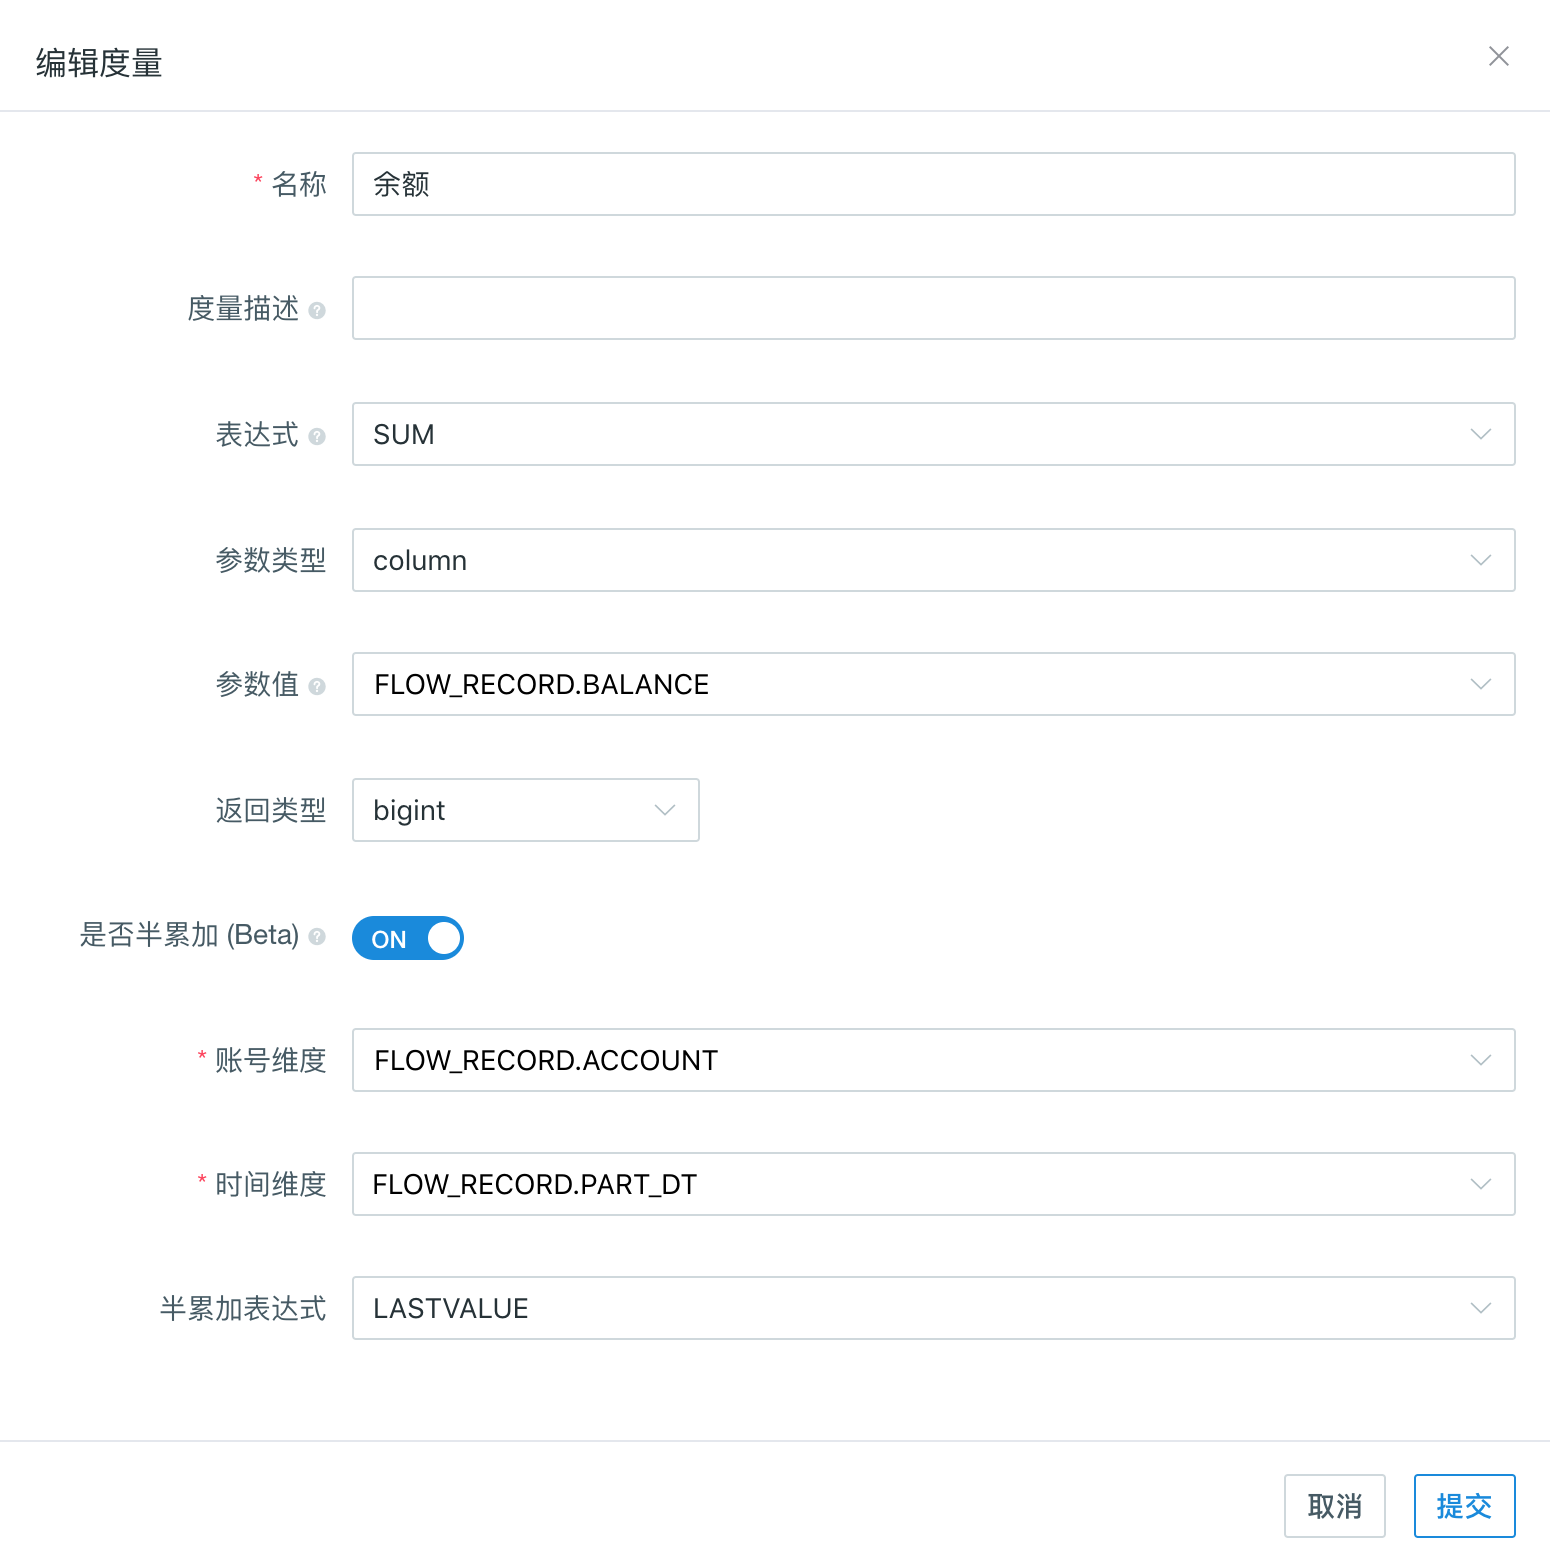
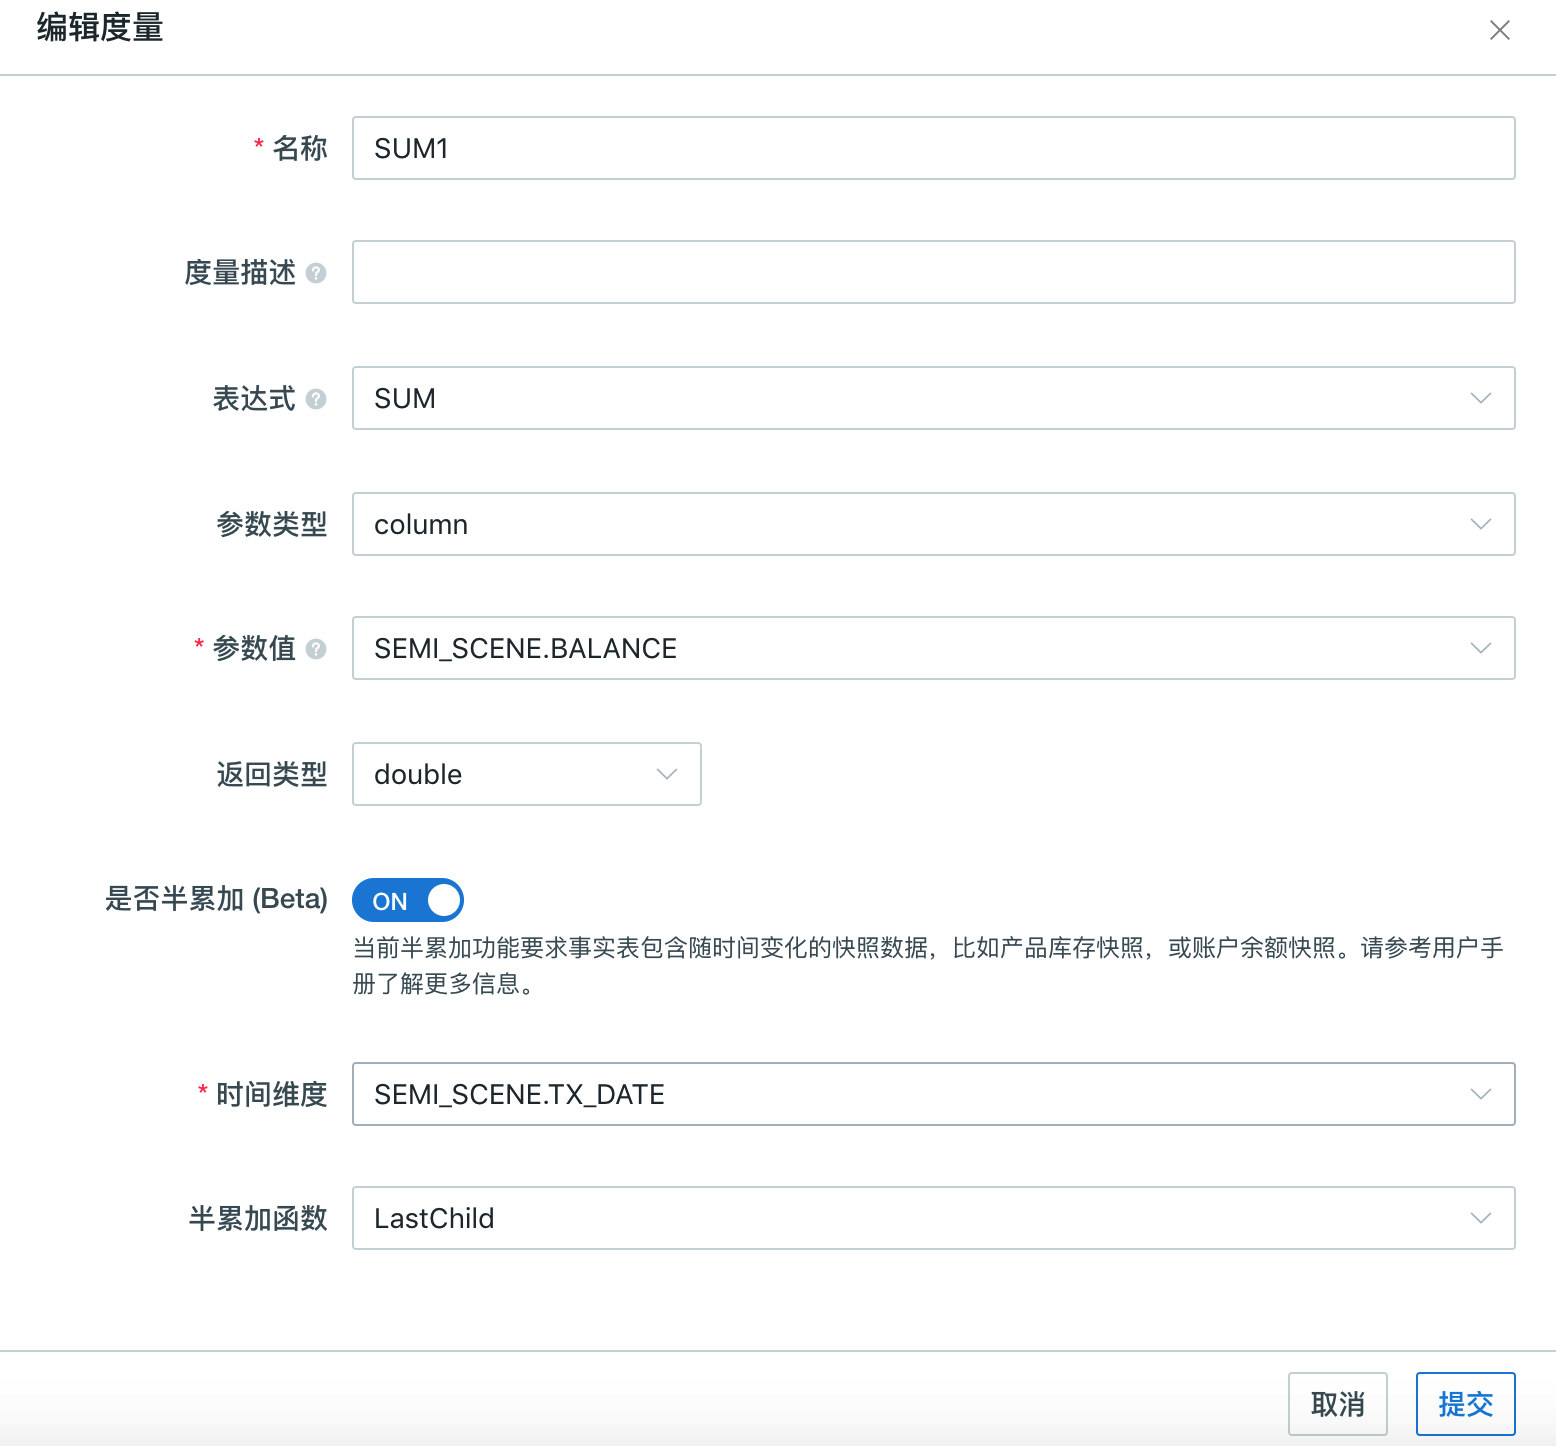
semi-sum refine

diff --git a/zh-hans/model/cube_design/measure_design/semi_sum.cn.md b/zh-hans/model/cube_design/measure_design/semi_sum.cn.md
@@ -1,42 +1,47 @@
 ## 半累加度量（Beta）
 
-在很多业务的数据分析场景中，半累加度量是很常见的，它可以用于处理证券、账户余额、人力资源等业务领域。比如在银行在使用账户交易记录数据来统计储蓄账户余额时，对于非时间维度，使用正常的求和，而对于时间维度，则需要取最后一条记录的值（LastNonEmpty）。
+在很多业务的数据分析场景中，半累加度量是很常见的，它可以用于处理证券、账户余额、人力资源等业务领域。比如在银行在使用账户交易记录数据来统计储蓄账户余额时，对于非时间维度，使用正常的求和，而对于时间维度，则需要取最后一条记录的值。
 
-本产品从 v3.3 版本开始，实现了对半累加度量的支持。在 Kyligence Enterprise 中定义聚合函数为 SUM 的度量时，可以启用半累加度量，指定半累加函数（LastNonEmpty）、账号维度和时间维度（TIMESTAMP 或 DATE 类型），即可实现度量的半累加行为。在查询时，Kyligence Enterprise 会对于同一账号维度下的多条记录，只取时间维度上的最后一个值，然后再在其他维度上进行正常的累加（SUM）。
+本产品从 v3.3 版本开始，实现了对半累加度量的支持。在 Kyligence Enterprise 中定义聚合函数为 SUM 的度量时，可以启用半累加度量，指定半累加函数和时间维度（TIMESTAMP 或 DATE 类型），即可实现度量的半累加行为。Kyligence Enterprise 在聚合计算时，对于每一个 Group By 结果集的多条记录，只取时间维度上最靠后的记录，如果时间最靠后有多条记录，再将它们进行正常的累加。
 
 ###  使用方法
 
-以基于银行交易流水数据进行余额分析为例，以下是银行账户流水记录表 *FLOW_RECORD* ：
+当前半累加功能要求事实表包含随时间变化的**快照数据**，比如产品库存快照，或账户余额快照。快照数据要求每一个记录时间点上都有所有账号的一条记录，比如下面的 *SEMI_SCENE* 表。
 
-| Part_DT    | Account   | Expense | Income | Balance |
+| TX_DATE    | ACCOUNT   | EXPENSE | INCOME | BALANCE |
 | ---------- | --------- | ------- | ------ | ------- |
 | 2018-01-01 | account_a | 100     |        | 1000    |
 | 2018-01-01 | account_b | 200     |        | 800     |
-| 2018-01-02 | account_b | 300     |        | 500     |
+| 2018-01-01 | account_c | 300     |        | 500     |
 | 2018-02-15 | account_a |         | 200    | 1200    |
-| 2018-02-18 | account_b |         | 300    | 800     |
+| 2018-02-15 | account_b |         | 300    | 1100    |
+| 2018-02-15 | account_c |         | 50     | 550     |
 
-在这种情形下，就可以将账户余额 *Balance* 定义为半累加度量，默认使用 SUM 函数对 *Balance* 进行聚合，但当查询包含的数据中同一账号 *Account* 下若存在多条记录，则使用半累加函数 LastNonEmpty，在交易时间 *Part_DT* 维度上对账户余额进行聚合。接下来我们将演示如何定义该半累加度量。
+*SEMI_SCENE* 表中有两个记录时间点，分别是 2018-01-01 和 2018-02-15，且每个时间点上都有 3 个账号的记录，是标准的快照数据。
 
-首先，在新建 Cube 界面，点击左下角**添加度量**来添加新的度量。
+在这种情形下，就可以将账户余额 *BALANCE* 定义为半累加度量，在交易时间 *TX_DATE* 维度上对账户余额进行聚合取最后的记录。下面是如何定义该半累加度量。
 
-第二步，输入度量名称，选择 *SUM* 为表达式，输入参数值，并勾选“是否半累加”。
+1. 以 *SEMI_SCENE* 为事实表创建 Cube。
 
-![添加度量](../images/semi_sum.cn.png)
+2. 在度量版面**添加度量**，选择 *SUM* 表达式，并勾选中半累加。
 
-第三步，选择账号维度与时间维度，并设置半累加表达式。
+3. 选择 BALANCE 为度量，TX_DATE 为时间维度。
 
-> **注意**：对于在同一账号下的多条数据，当前版本只支持 **LastNonEmpty** 聚合函数。如果您看到 **LASTVALUE**，那是一个 Beta 版本中的缺陷，将会很快修复。它的实际行为就是 LastNonEmpty。
+4. 选择半累加函数为 LastChild，也是当前唯一支持的函数。
 
-第四步，设计并构建完 Cube 后，转至**分析**页面进行查询。
+5. 完成其他 Cube 信息并保存。
+   
+   ![添加度量](../images/semi_sum.cn.png)
 
-查询示例如下：
+
+
+构建加载数据后，就可以查询。例如：
 
 1. 分析每个账户支出总额、收入总额和账户余额
 
    ```sql
    SELECT ACCOUNT, SUM(EXPENSE),SUM(INCOME),SUM(BALANCE)
-   FROM FLOW_RECORD
+   FROM SEMI_SCENE
    GROUP BY ACCOUNT
    ```
 
@@ -44,15 +49,16 @@
 
    ```sql
    account_a, 100, 200, 1200
-   account_b, 500, 300, 800
+   account_b, 200, 300, 1100
+   account_c, 300, 50, 550
    ```
 
 2. 获得 2018 年 1 月底的所有账户余额
 
    ```sql
    SELECT ACCOUNT, SUM(BALANCE)
-   FROM FLOW_RECORD
-   WHERE PART_DT <= '2018-01-31'
+   FROM SEMI_SCENE
+   WHERE TX_DATE <= '2018-01-31'
    GROUP BY ACCOUNT
    ```
    
@@ -60,98 +66,77 @@
    
    ```sql
    account_a, 1000
-   account_b, 500
+   account_b, 800
+   account_c, 500
    ```
    
 3. 分析 2018 年所有账户的总支出、总收入、总账户余额
 
    ```sql
    SELECT SUM(EXPENSE),SUM(INCOME),SUM(BALANCE)
-   FROM FLOW_RECORD
-   WHERE YEAR(PART_DT) = 2018
+   FROM SEMI_SCENE
+   WHERE YEAR(TX_DATE) = 2018
    ```
 
    结果为
 
    ```sql
-   600, 500, 2000
+   600, 550, 2850
    ```
 
 4. 分析 2018 年每个月所有账户的总支出、总收入、总账户余额
 
    ```sql
-   SELECT MONTH(PART_DT),SUM(EXPENSE),SUM(INCOME),SUM(BALANCE)
-   FROM FLOW_RECORD
-   WHERE YEAR(PART_DT) = 2018
-   GROUP BY MONTH(PART_DT)
+   SELECT MONTH(TX_DATE),SUM(EXPENSE),SUM(INCOME),SUM(BALANCE)
+   FROM SEMI_SCENE
+   WHERE YEAR(TX_DATE) = 2018
+   GROUP BY MONTH(TX_DATE)
    ```
 
    结果为
 
    ```sql
-   201801, 600, 0, 1500
-   201802, 0, 500, 2000
+   201801, 600, 0, 2300
+   201802, 0, 550, 2850
    ```
+
+
 
 ### 注意事项和已知限制
 
-1. 为了确保获得正确的查询结果，查询的时候有以下几点请特别留意：
+- 如果事实表中并非完整的快照数据，查询的结果可能与用户的期望不符。
   
-   - 查询的过滤条件必须命中足够多的记录，以保证每个需要返回的账户至少出现一条记录。
-   
-     比如，下面的查询将无法返回 `account_a` 的账户余额，因为过滤条件只选中了 `2018-01-02` 一天，而这一天不包含 `account_a` 的任何记录。
-   
-     ```sql
-     SELECT ACCOUNT, SUM(BALANCE)
-     FROM FLOW_RECORD
-     WHERE PART_DT = '2018-01-02'
-     GROUP BY ACCOUNT
-     ```
-   
-     错误的结果为
-   
-     ```sql
-     account_b, 500
-     ```
-   
-     为了获得 `2018-01-02` 这天所有的账户余额，正确的查询是
-   
-     ```sql
-     SELECT ACCOUNT, SUM(BALANCE)
-     FROM FLOW_RECORD
-     WHERE PART_DT <= '2018-01-02'
-     GROUP BY ACCOUNT
-     ```
-   
-     得到正确结果为
-   
-     ```sql
-     account_a, 1000
-     account_b, 500
-     ```
-   
-   - 查询中的 Group By 所产生的记录组必须包含足够多的记录，以保证在每个记录组中，每个需要返回的账户至少出现一条记录。
-   
-     比如，下面按月 Group By 的查询能正确返回每个月底的总余额，因为每个月都包含了 account_a 和 account_b 的记录。
-   
-     ```sql
-     SELECT MONTH(PART_DT), SUM(BALANCE)
-     FROM FLOW_RECORD
-     WHERE YEAR(PART_DT) = 2018
-     GROUP BY MONTH(PART_DT)
-     ```
-   
-     但下面按天 Group By 的查询将**不能**正确返回每天的总余额，因为并不是每天每个账户都有记录。
-   
-     ```sql
-     SELECT PART_DT, SUM(BALANCE)
-     FROM FLOW_RECORD
-     WHERE YEAR(PART_DT) = 2018
-     GROUP BY PART_DT
-     ```
-   
-   - 如果在同一个时间点、同一个账户上出现多条记录，由于无法确定那一条记录为最后，半累加的结果将无法确定。
-   
-   - 半累加度量不支持表索引、查询下压和异步查询。在上述情况中，查询结果将返回全累加值。
-2. 只有聚合函数为 SUM 的度量才可以设置半累加度量，半累加函数只支持 LastNonEmpty。
-3. 在同一个项目中，基于事实表中的同一列不能同时定义半累加度量和全累加度量。即在一个项目中，基于某列定义了半累加度量后，不能再基于其定义普通的 SUM 度量；定义了普通 SUM 度量的列，不能再被使用与定义半累加度量。
+  比如下面的数据集，在 2018-02-15 时间点上缺失 2 条记录：
+  
+  | TX_DATE    | ACCOUNT   | EXPENSE | INCOME | BALANCE |
+  | ---------- | --------- | ------- | ------ | ------- |
+  | 2018-01-01 | account_a | 100     |        | 1000    |
+  | 2018-01-01 | account_b | 200     |        | 800     |
+  | 2018-01-01 | account_c | 300     |        | 500     |
+  | 2018-02-15 | account_a |         | 200    | 1200    |
+  
+  此时查询
+  
+  ```sql
+  SELECT ACCOUNT, SUM(BALANCE)
+  FROM SEMI_SCENE
+  GROUP BY ACCOUNT
+  ```
+  
+  结果为
+  
+  ```sql
+  account_a, 1200
+  account_b, 800
+  account_c, 500
+  ```
+
+  可能与期望 2018-02-15 时刻 account_b 和 account_c 余额不存在即为零不符。
+
+  此外，如果在 2018-02-15 时刻有多条 account_a 的记录，也会导致查询结果有歧义。
+  
+- 半累加度量不支持表索引、查询下压和异步查询。在上述情况中，查询结果将返回全累加值。
+
+- 只有聚合函数为 SUM 的度量才可以设置半累加度量，半累加函数当前只支持 LastChild。
+
+- 在同一个项目中，基于事实表中的同一列不能同时定义半累加度量和全累加度量。比如在一个项目中，不能同时定义 BALANCE 的全累加和半累加的度量，那样会造成 SUM(BALANCE) 的二义性，导致查询语义不明确。
